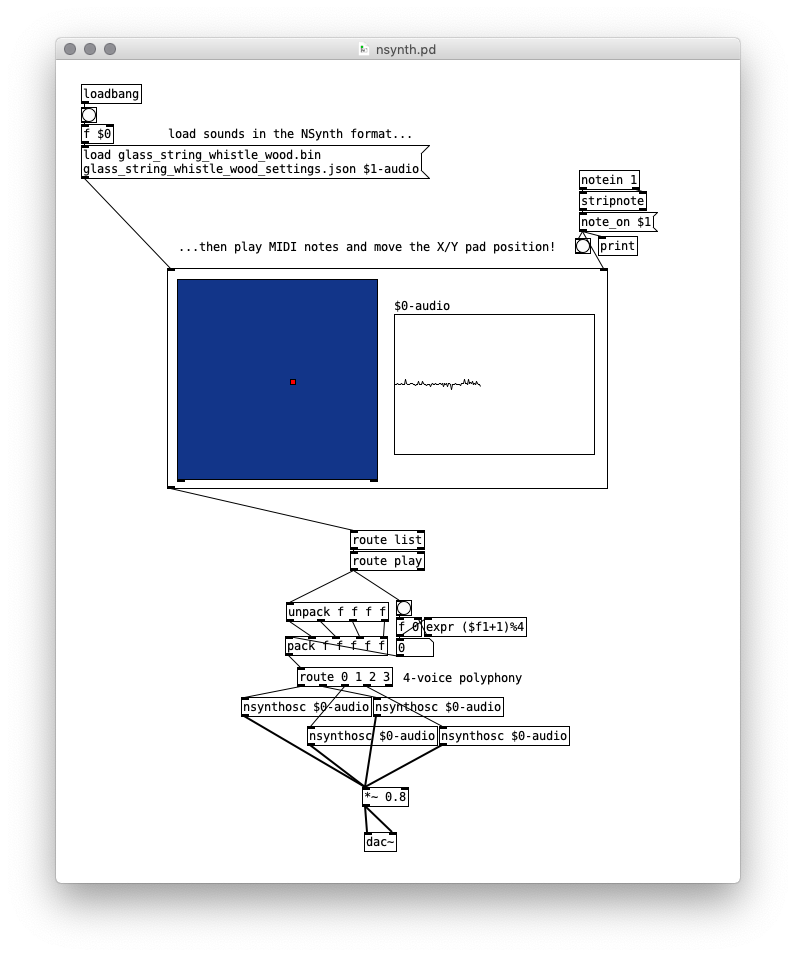
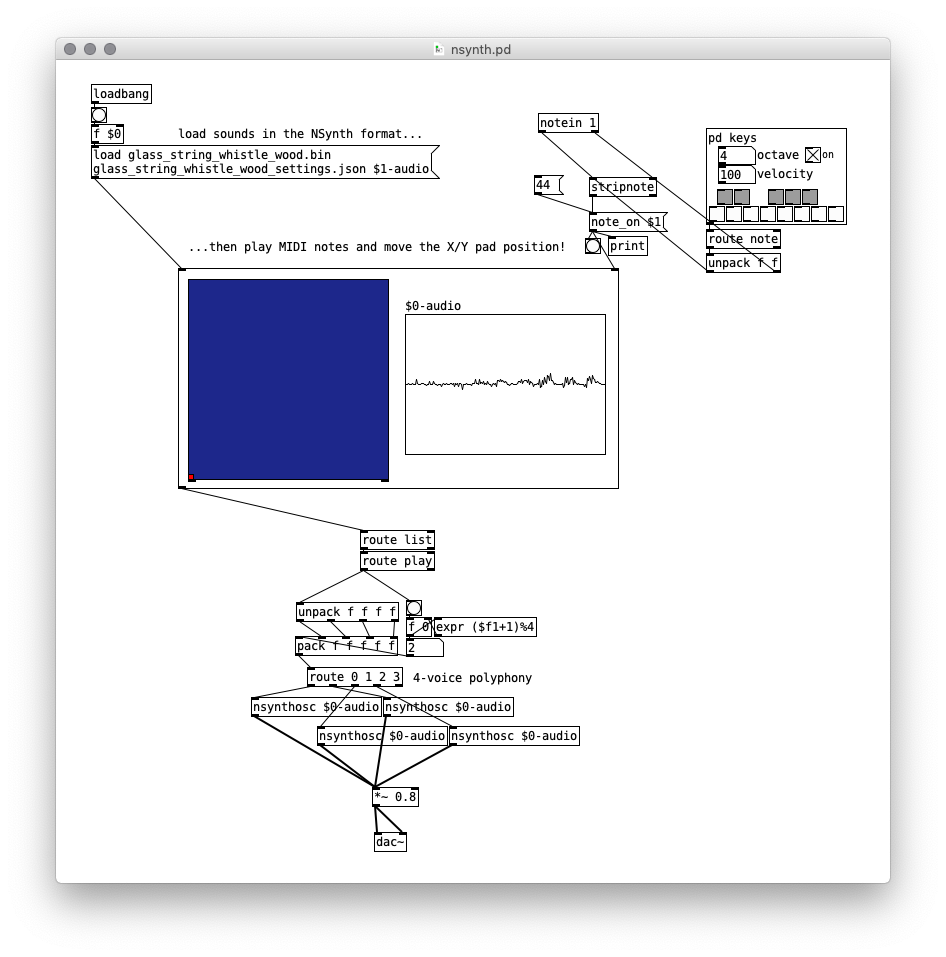
add virtual keys to nsynth patch

diff --git a/03_nsynth_and_gansynth/nsynth/README.md b/03_nsynth_and_gansynth/nsynth/README.md
@@ -41,7 +41,7 @@ The NSynth algorithm is very computationally intensive and much too slow for rea
 
 The [SOPI fork of Open NSynth Super](https://github.com/SopiMlab/open-nsynth-super/) has instructions for generating audio with NSynth. Note that this requires a powerful GPU (ideally multiple).
 
-Some of the sounds we've generated are available in the [SOPI Google Drive](https://drive.google.com/open?id=1yoJhvr2UY0ID3AP6jumUItJJGSkiBEg_).
+Some of the sounds we've generated are available in the [SOPI Google Drive](https://drive.google.com/open?id=1yoJhvr2UY0ID3AP6jumUItJJGSkiBEg_). The `glass_string_whistle_wood` files shown in the example below are in the `inspace.zip` package.
 
 We have also developed a Pure Data patch for playing notes generated by NSynth (`nsynth.pd`). To run this, you need to
 
